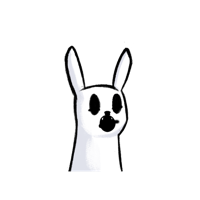
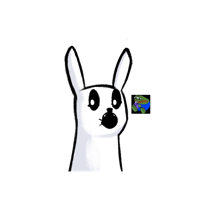
Смена рта и глаз

Changed region(s): [[0.42, 0.42, 0.78, 0.66]]

diff --git a/renderer.py b/renderer.py
@@ -52,6 +52,10 @@ class Renderer:
         self.last_activity_time = time.time()
         self.idle_brightness = 0.5  # Яркость в idle-режиме (0.0 - черный, 1.0 - оригинал)
 
+        # Словари для быстрого доступа
+        self.layers_by_name = {}
+        self.groups_by_name = {}
+
     def set_idle(self, enabled, timeout):
         self.idle_enabled = enabled
         self.idle_timeout = timeout
@@ -106,6 +110,10 @@ class Renderer:
         self._gif_frame_times = {}
         self._gif_last_update = {}
         self._gif_current_frame = {}
+        
+        # Создаем словари для быстрого доступа
+        self.layers_by_name = {l.get('name'): l for l in self.model.get('layers', [])}
+        self.groups_by_name = {g.get('name'): g for g in self.model.get('groups', [])}
         
         for layer in self.model.get("layers", []):
             filename = layer.get("file")
@@ -181,8 +189,31 @@ class Renderer:
         with self._lock:
             return self._frame_bytes
 
+    def _resolve_to_layer(self, name, group_name, visited=None):
+        """Рекурсивно разрешает имя группы до имени слоя"""
+        if visited is None:
+            visited = set()
+        
+        # Если имя уже посещено - возвращаем None (защита от циклов)
+        if name in visited:
+            return None
+        visited.add(name)
+        
+        # Если это слой - возвращаем его
+        if name in self.layers_by_name:
+            return name
+            
+        # Если это группа - обрабатываем рекурсивно
+        if name in self.groups_by_name:
+            group = self.groups_by_name[name]
+            chosen = self._choose_group_child(group)
+            if chosen:
+                return self._resolve_to_layer(chosen, group_name, visited)
+                
+        return None
+
     def _choose_group_child(self, group):
-        """Выбор дочернего элемента группы"""
+        """Выбор дочернего элемента группы с поддержкой вложенных групп"""
         group_name = group.get("name")
         logic = group.get("logic", {})
         
@@ -291,7 +322,10 @@ class Renderer:
                 for group in self.model.get("groups", []):
                     chosen = self._choose_group_child(group)
                     if chosen:
-                        group_choices[group['name']] = chosen
+                        # Разрешаем вложенные группы до конкретного слоя
+                        resolved = self._resolve_to_layer(chosen, group['name'])
+                        if resolved:
+                            group_choices[group['name']] = resolved
                 
                 layers_by_name = {l.get("name"): l for l in self.model.get("layers", [])}
                 for layer in self.model.get("layers", []):

diff --git a/editor.py b/editor.py
@@ -955,13 +955,26 @@ class ModelEditor(tk.Toplevel):
                 menu = om["menu"]
                 menu.delete(0, "end")
                 menu.add_command(label="", command=lambda v=self.state_vars[state]: v.set(""))
+                
+                # Добавляем слои и группы в выпадающий список
                 for child in children:
                     menu.add_command(
-                        label=child,
+                        label=f"Слой: {child}",
                         command=lambda val=child, v=self.state_vars[state]: v.set(val)
                     )
-                saved_value = grp.get("logic", {}).get(state, "")
-                self.state_vars[state].set(saved_value)
+                
+                # Добавляем все группы кроме текущей
+                for group in self.model.get("groups", []):
+                    if group["name"] != gname:
+                        menu.add_command(
+                            label=f"Группа: {group['name']}",
+                            command=lambda val=group['name'], v=self.state_vars[state]: v.set(val)
+                        )
+            
+            saved_logic = grp.get("logic", {})
+            for state in saved_logic:
+                if state in self.state_vars:
+                    self.state_vars[state].set(saved_logic[state])
             
             self.random_effect_var.set(grp.get("random_effect", False))
             self.random_min_var.set(grp.get("random_min", 5.0))
